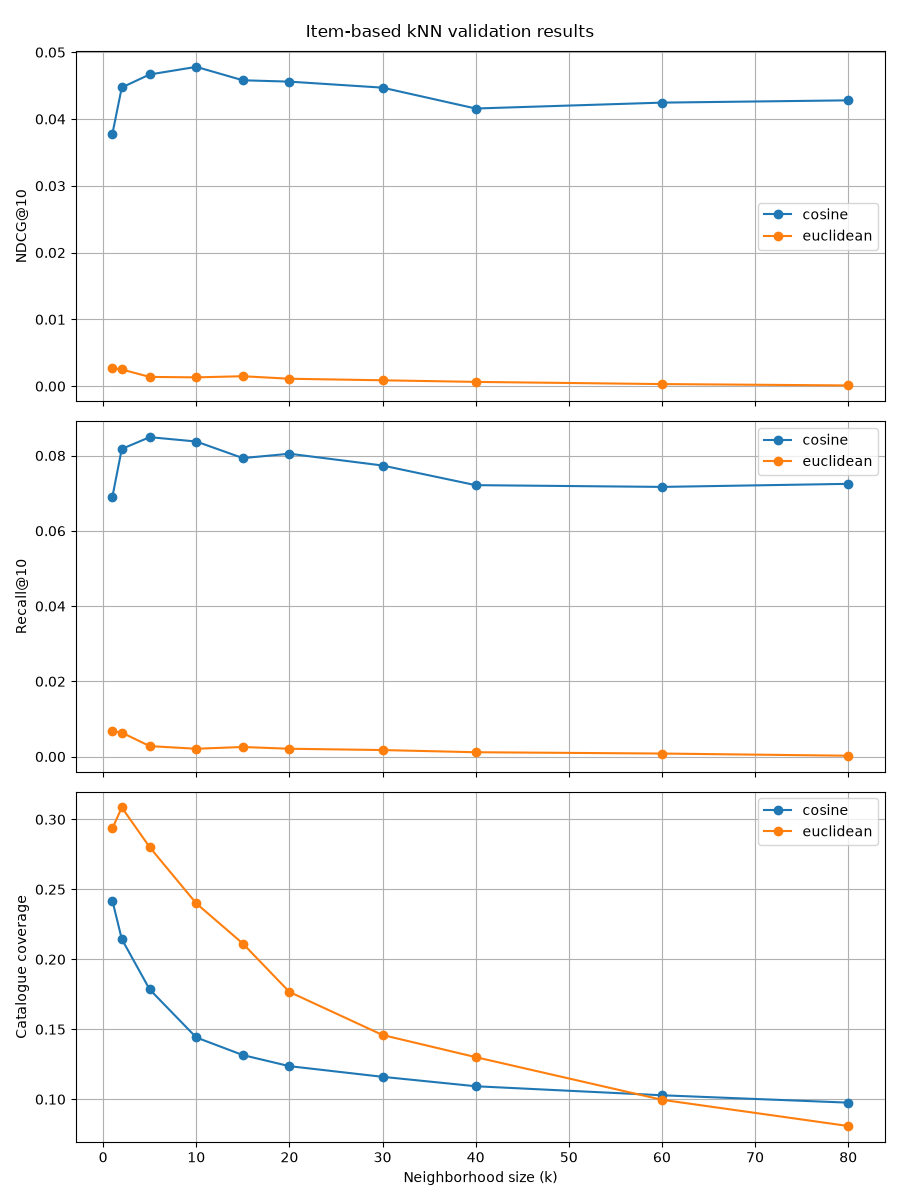
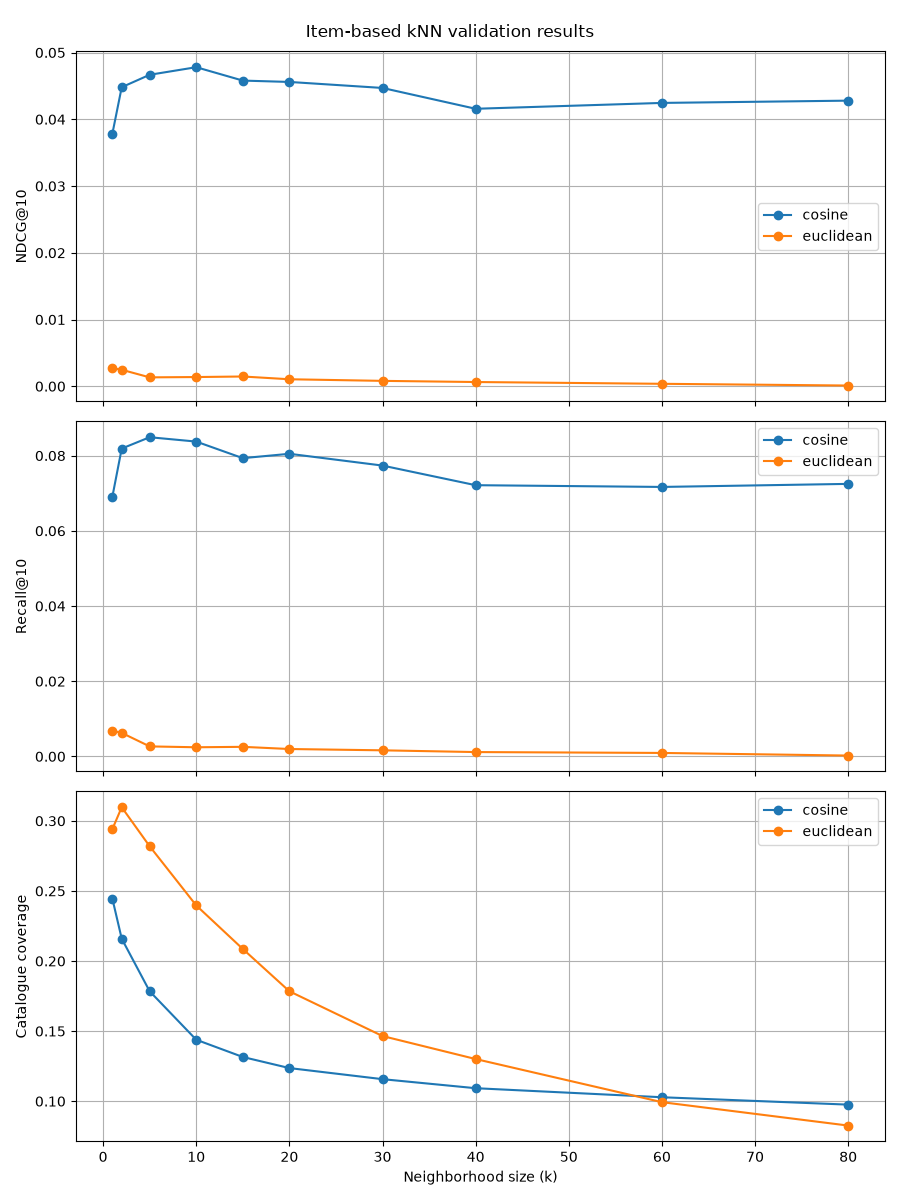
updated rating histogram, report and run_all.py

diff --git a/run_all.py b/run_all.py
@@ -7,6 +7,7 @@ from pprint import pprint
 from data_loader import filter_ratings, load_movielens, temporal_split
 from plot_routines import (hist_ratings, plot_cum_ratings, hist_user_item_count, plot_long_tail, plot_long_tail_with_threshold) 
 from most_popular import get_max_timestamp, get_min_timestamp, get_most_popular_movies, print_most_popular_movies
+from knn_recommender import run_knn_experiment
 
 # subfolder for plots:
 # (set to None to display plots on screen)
@@ -67,6 +68,7 @@ def main():
     
     _users, ratings, movies = load_movielens(args.data_dir)
 
+    print("*** Calculating descriptive statistics (Part I) ***\n")
     # Calculate and display initial statistics:
     user_counts, item_counts, rating_counts = print_dataset_statistics(ratings, title="--- INITIAL DATASET STATISTICS ---")
     
@@ -89,7 +91,7 @@ def main():
     # If you see that different kind of filtering is needed, feel free to change the thresholds and/or the filtering logic below.
     # # # # #
 
-
+    print("\n***Getting most popular items (Part I) ***\n")
     min_ratings_per_user = 25
     min_ratings_per_movie = 5
     ratings, filter_stats = filter_ratings(
@@ -98,7 +100,7 @@ def main():
         min_ratings_per_movie=min_ratings_per_movie,
     )
 
-    print(f"\n* Filtering applied: Removed {filter_stats['users_removed']} users (< {min_ratings_per_user} ratings) and {filter_stats['movies_removed']} movies (< {min_ratings_per_movie} ratings).")
+    print(f"* Filtering applied: Removed {filter_stats['users_removed']} users (< {min_ratings_per_user} ratings) and {filter_stats['movies_removed']} movies (< {min_ratings_per_movie} ratings).")
     print(f"* Removed rows (interactions): {filter_stats['rows_removed']}")
 
     # Calculate and display updated statistics after filtering:
@@ -129,5 +131,10 @@ def main():
         f"{len(split.validation)} validation, {len(split.test)} test ratings."
     )
 
+    # Run kNN - recommender:
+    print("\n*** Running kNN-recommender (Part I) ***\n")
+
+    run_knn_experiment(args.data_dir)
+
 if __name__ == "__main__":
-    main()
+    main()

diff --git a/plot_routines.py b/plot_routines.py
@@ -74,10 +74,10 @@ def hist_ratings(ratings, rating_counts, plot_path= None):
     plt.figure(figsize=(9, 5))
     plt.bar(rating_counts.index, rating_counts.values,
             width=0.7, edgecolor="black")
-    #plt.axvline(ratings["Rating"].median(), linestyle="--",
-    #            label=f"Median = {ratings['Rating'].median():.1f}")
-    #plt.axvline(ratings["Rating"].mean(), linestyle="-.",
-    #            label=f"Mean = {ratings['Rating'].mean():.2f}")
+    plt.axvline(ratings["Rating"].median(), linestyle="--",
+                label=f"Median = {ratings['Rating'].median():.1f}")
+    plt.axvline(ratings["Rating"].mean(), linestyle="-.",
+                label=f"Mean = {ratings['Rating'].mean():.2f}")
 
     plt.xlabel("Rating")
     plt.ylabel("Number of ratings")
